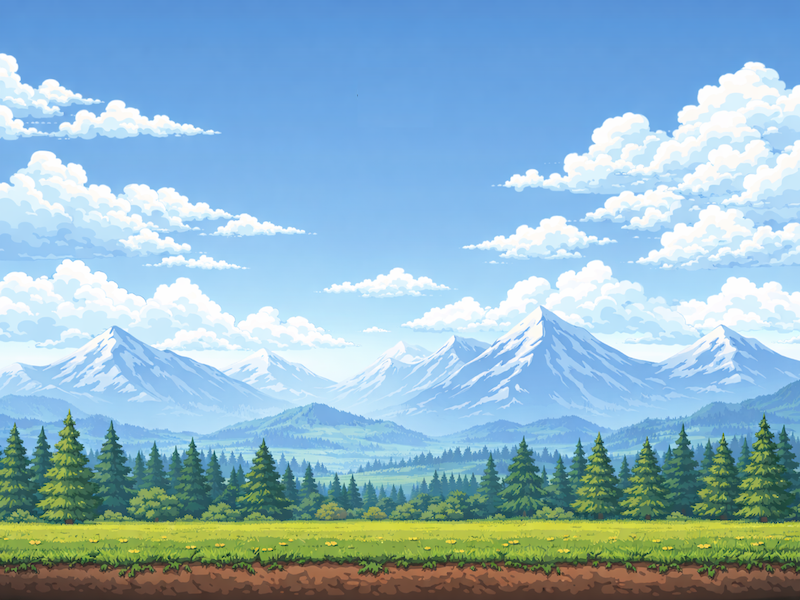
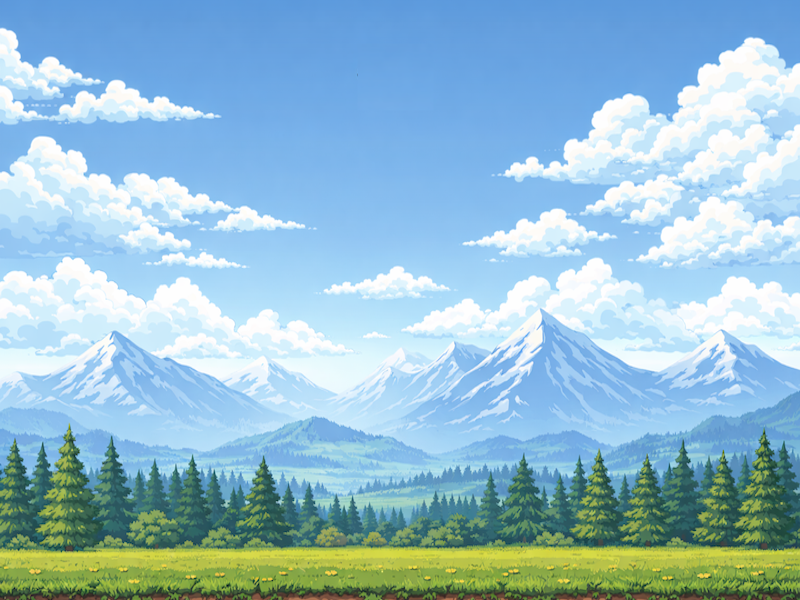
Refactor game logic into SopwithGame class and add runway image
Refactored the main game logic from procedural functions into a SopwithGame class for better organization and maintainability. Added support for a new runway image asset. Updated background image and improved HUD display for altitude, bombs dropped, and score.

diff --git a/src/sopwith.py b/src/sopwith.py
@@ -1,155 +1,172 @@
 import pygame
 
-def create_game_screen():
-    # Create a new window
-    screen = pygame.display.set_mode((800, 600))
-    pygame.display.set_caption("Sopwith Game")
-    return screen
 
-def create_background() -> pygame.Surface:
-    background_image = pygame.image.load("assets/images/background.png")
-    return background_image
+class SopwithGame:
+    def __init__(self):
+        # Initialize pygame
+        pygame.init()
 
-def create_player_image():
-    player_image = pygame.image.load("assets/images/sopwith.png")
-    return player_image
+        # Create the game screen
+        self.screen = pygame.display.set_mode((800, 600))
+        pygame.display.set_caption("Sopwith Game")
 
-def create_player_rect(player_image, screen):
-    player_rect = player_image.get_rect()
-    player_rect.left = screen.get_width() - player_rect.width - 10
-    player_rect.top = 50
-    return player_rect
+        # Load images
+        self.background = pygame.image.load("assets/images/background.png")
+        self.runway = pygame.image.load("assets/images/runway.png")
+        self.player_image = pygame.image.load("assets/images/sopwith.png")
+        self.bomb_image = pygame.image.load("assets/images/bomb.png")
 
-def create_bomb(player_rect, screen) -> pygame.Rect:
-    bomb_image = pygame.image.load("assets/images/bomb.png")
-    bomb_rect = bomb_image.get_rect()
-    bomb_rect.top = player_rect.bottom - 8
-    bomb_rect.midtop = player_rect.midbottom
-    screen.blit(bomb_image, (bomb_rect.x, bomb_rect.y))
-    return bomb_rect
+        # Create player rect
+        self.player_rect = self.player_image.get_rect()
+        self.player_rect.left = self.screen.get_width() - self.player_rect.width - 10
+        self.player_rect.top = 50
 
-def draw_bomb_update(bomb_rect, screen) -> pygame.Rect:
-    bomb_image = pygame.image.load("assets/images/bomb.png")
-    old_rect = bomb_image.get_rect()
-    old_rect.right = bomb_rect.right
-    old_rect.top = bomb_rect.top + 5
+        # Game state variables
+        self.running = True
+        self.game_mode = 0
+        self.score = 0
+        self.altitude = 0
+        self.bombs_dropped = 0
+        self.bombs = []
 
-    screen.blit(bomb_image, old_rect)
-    return old_rect
+        # Movement speeds
+        self.vertical_speed = 50
+        self.horizontal_speed = -2
 
+        # Clock for controlling the frame rate
+        self.clock = pygame.time.Clock()
 
-def display_coordination_text(screen, player_rect: pygame.Rect):
-    # Create a font for displaying text
-    font = pygame.font.Font(None, 24)
+        # Font for text display
+        self.font_large = pygame.font.Font(None, 24)
+        self.font_small = pygame.font.Font(None, 18)
 
-    # Render and display coordinates in top right
-    coord_text = font.render(f'Player Coordinate: {player_rect.center}',
-                             True, (255, 255, 255))
+    def update_altitude(self):
+        """Calculate current altitude based on player position"""
+        self.altitude = self.screen.get_height() - self.player_rect.bottom - 37
 
-    text_rect = coord_text.get_rect()
-    text_rect.topleft = (10, 10)  # 10 pixels from top and left edge
+    def create_bomb(self) -> pygame.Rect:
+        """Create a new bomb at the player's position"""
+        bomb_rect = self.bomb_image.get_rect()
+        bomb_rect.top = self.player_rect.bottom - 8
+        bomb_rect.midtop = self.player_rect.midbottom
+        self.screen.blit(self.bomb_image, (bomb_rect.x, bomb_rect.y))
+        return bomb_rect
 
-    screen.blit(coord_text, text_rect)
+    def draw_bomb_update(self, bomb_rect: pygame.Rect) -> pygame.Rect:
+        """Update and draw a falling bomb"""
+        old_rect = self.bomb_image.get_rect()
+        old_rect.right = bomb_rect.right
+        old_rect.top = bomb_rect.top + 5
+        self.screen.blit(self.bomb_image, old_rect)
+        return old_rect
 
-def display_bombs_dropped(screen, bombs_dropped):
-    # Create a font for displaying text
-    font = pygame.font.Font(None, 18)
+    def manage_bombs(self):
+        """Update all active bombs"""
+        if len(self.bombs) > 0:
+            bomb_rect = self.bombs.pop(0)
+            new_bomb_rect = self.draw_bomb_update(bomb_rect)
+            if new_bomb_rect.bottom < self.screen.get_height() - 50:
+                self.bombs.append(new_bomb_rect)
 
-    # Render and display coordinates in top right
-    coord_text = font.render(f'Bombs Dropped: {bombs_dropped}',
-                             True, (255, 255, 255))
+    def update_player_coordinates(self):
+        """Update player position based on movement speeds"""
+        if self.player_rect.left <= 10:
+            self.player_rect.left = self.screen.get_width() - self.player_rect.width - 10
+            self.player_rect.top = self.player_rect.top + self.vertical_speed
 
-    text_rect = coord_text.get_rect()
-    text_rect.topleft = (650, 10)  # 10 pixels from top and left edge
+        self.player_rect.left += self.horizontal_speed
 
-    screen.blit(coord_text, text_rect)
+    def draw_player(self):
+        """Draw the player and update their position"""
+        self.screen.blit(self.player_image, (self.player_rect.x, self.player_rect.y))
+        self.update_player_coordinates()
 
-def draw_player(horizontal_speed, player_image, player_rect, screen, vertical_speed) -> pygame.Rect:
-    screen.blit(player_image, (player_rect.x, player_rect.y))
-    player_rect = update_player_coordinates(horizontal_speed, player_rect, screen, vertical_speed)
-    return player_rect
+    def display_hud(self):
+        """Display game information (altitude, bombs, score)"""
+        # Display altitude
+        altitude_text = self.font_small.render(
+            f'Altitude: {self.altitude} ft',
+            True, (255, 255, 255)
+        )
+        altitude_rect = altitude_text.get_rect()
+        altitude_rect.topleft = (10, 10)
+        self.screen.blit(altitude_text, altitude_rect)
 
+        # Display bombs dropped
+        bombs_text = self.font_small.render(
+            f'Bombs Dropped: {self.bombs_dropped}',
+            True, (255, 255, 255)
+        )
+        bombs_rect = bombs_text.get_rect()
+        bombs_rect.topleft = (650, 10)
+        self.screen.blit(bombs_text, bombs_rect)
 
-def update_player_coordinates(horizontal_speed, player_rect, screen, vertical_speed) -> pygame.Rect:
+        # Display score (for future use)
+        score_text = self.font_small.render(
+            f'Score: {self.score}',
+            True, (255, 255, 255)
+        )
+        score_rect = score_text.get_rect()
+        score_rect.topleft = (650, 30)
+        self.screen.blit(score_text, score_rect)
 
-    if player_rect.left <= 10:
-        player_rect.left = screen.get_width() - player_rect.width - 10
-        player_rect.top = player_rect.top + vertical_speed
-
-    player_rect.left += horizontal_speed
-
-    return player_rect
-
-def manage_bombs(bombs, screen) -> list[pygame.Rect]:
-    if len(bombs) > 0:
-        bomb_rect = bombs.pop(0)
-        new_bomb_rect = draw_bomb_update(bomb_rect, screen)
-        if new_bomb_rect.bottom < screen.get_height() - 50:
-            bombs.append(new_bomb_rect)
-    return bombs
-
-
-def main():
-
-    # Game loop
-    running = True
-
-    # Initialize the game
-    pygame.init()
-
-    # Create the game screen
-    screen = create_game_screen()
-    background = create_background()
-
-    # Clock for controlling the frame rate
-    clock = pygame.time.Clock()
-
-    # Create the player image and rect
-    player_image = create_player_image()
-    player_rect = create_player_rect(player_image, screen)
-
-    # Set the initial horizontal and vertical speeds
-    vertical_speed = 50
-    horizontal_speed = -2
-
-    bombs: list = []
-    number_of_bombs_dropped = 0
-
-    # Game loop
-    while running:
-
-
-        # Display the background image
-        screen.blit(background, (0, 0))
-
-        # Draw the player
-        player_rect = draw_player(horizontal_speed, player_image, player_rect, screen, vertical_speed)
-
-        # Draw bombs (if needed)
-        bombs = manage_bombs(bombs, screen)
-
-        # Display the player coordinates
-        display_coordination_text(screen, player_rect)
-        display_bombs_dropped(screen, number_of_bombs_dropped)
-
+    def handle_events(self):
+        """Process game events"""
         for event in pygame.event.get():
             if event.type == pygame.KEYDOWN:
                 if event.key == pygame.K_SPACE:
-                    if len(bombs) == 0:
-                        bomb_rect = create_bomb(player_rect, screen)
-                        number_of_bombs_dropped += 1
-                        bombs.append(bomb_rect)
+                    if len(self.bombs) == 0:
+                        bomb_rect = self.create_bomb()
+                        self.bombs_dropped += 1
+                        self.bombs.append(bomb_rect)
 
             if event.type == pygame.QUIT:
-                running = False
+                self.running = False
+
+    def update(self):
+        """Update game state"""
+        self.update_altitude()
+
+        if self.game_mode == 0:
+            # Display the background image
+            self.screen.blit(self.background, (0, 0))
+
+            # Draw the player
+            self.draw_player()
+
+            # Draw bombs (if needed)
+            self.manage_bombs()
+
+    def render(self):
+        """Render everything to the screen"""
+        # Display HUD
+        self.display_hud()
 
         # Update the display
         pygame.display.flip()
-        clock.tick(60)
 
-    pygame.quit()
+    def run(self):
+        """Main game loop"""
+        while self.running:
+            # Update game state
+            self.update()
+
+            # Handle events
+            self.handle_events()
+
+            # Render everything
+            self.render()
+
+            # Control frame rate
+            # self.clock.tick(60)    # Play speed
+            self.clock.tick(180)     # Test speed
+
+        pygame.quit()
 
 
+def main():
+    game = SopwithGame()
+    game.run()
 
 
 if __name__ == '__main__':
